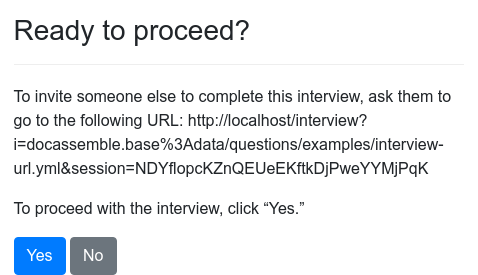
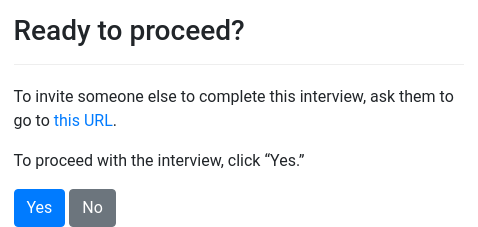
temporary and once_temporary options for interview_url; SQL error in websockets; actions on code not setting current question

diff --git a/docassemble/webapp/templates/pages/501.html b/docassemble/webapp/templates/pages/501.html
@@ -11,7 +11,7 @@
 {%- if verbose %}
 {{ error|safe }}
 
-{%- if historytext != 'None' %}
+{%- if show_debug and historytext != 'None' %}
 
 <h3>{{ word('History') }}</h3>
 
@@ -20,7 +20,7 @@
 <p><a target="_blank" href="{{ url_for('get_variables') }}">{{ word('Show variables and values') }}</a></p>
 {%- endif %}
 
-{%- if logtext != 'None' %}
+{%- if show_debug and logtext != 'None' %}
 
 <h3>{{ word('Log') }}</h3>
 

diff --git a/docassemble/webapp/socketserver.py b/docassemble/webapp/socketserver.py
@@ -67,10 +67,17 @@ def obtain_lock(user_code, filename):
     pipe.set(key, 1)
     pipe.expire(key, 4)
     pipe.execute()
-    
+
 def release_lock(user_code, filename):
     key = 'da:lock:' + user_code + ':' + filename
     rr.delete(key)
+
+@app.teardown_appcontext
+def close_db(error):
+    sys.stderr.write("Teardown of app context\n")
+    if hasattr(db, 'engine'):
+        sys.stderr.write("Tearing down\n")
+        db.engine.dispose()
 
 def background_thread(sid=None, user_id=None, temp_user_id=None):
     if user_id is not None:
@@ -89,12 +96,13 @@ def background_thread(sid=None, user_id=None, temp_user_id=None):
             the_timezone = pytz.timezone(person.timezone)
         else:
             the_timezone = pytz.timezone(get_default_timezone())
-        r = redis.StrictRedis(host=redis_host, port=redis_port, db=redis_offset)
+    r = redis.StrictRedis(host=redis_host, port=redis_port, db=redis_offset)
 
-        partners = set()
-        pubsub = r.pubsub()
-        pubsub.subscribe([sid])
-        for item in pubsub.listen():
+    partners = set()
+    pubsub = r.pubsub()
+    pubsub.subscribe([sid])
+    for item in pubsub.listen():
+        with app.app_context():
             sys.stderr.write("0\n" + repr(item) + "\n")
             if item['type'] != 'message':
                 continue
@@ -163,7 +171,7 @@ def interview_start_being_controlled(message):
 def handle_message(message):
     socketio.emit('mymessage', {'data': "Hello"}, namespace='/wsinterview', room=request.sid)
     #sys.stderr.write('received message from ' + str(session.get('uid', 'NO UID')) + ': ' + message['data'] + "\n")
-    
+
 @socketio.on('chat_log', namespace='/wsinterview')
 def chat_log(message):
     user_dict = get_dict()
@@ -183,7 +191,7 @@ def chat_log(message):
         temp_user_id = int(temp_user_id)
     secret = request.cookies.get('secret', None)
     if secret is not None:
-        secret = str(secret)    
+        secret = str(secret)
     #sys.stderr.write("chat_log: " + str(repr(user_id)) + " " + str(repr(temp_user_id)) + "\n")
     messages = get_chat_log(chat_mode, yaml_filename, session_id, user_id, temp_user_id, secret, user_id, temp_user_id)
     socketio.emit('chat_log', {'data': messages}, namespace='/wsinterview', room=request.sid)
@@ -270,7 +278,7 @@ def on_interview_reconnect(data):
     interview_connect()
     rr.publish('da:monitor', json.dumps(dict(messagetype='refreshsessions')))
     socketio.emit('reconnected', {}, namespace='/wsinterview', room=request.sid)
-    
+
 def interview_connect():
     session_id = session.get('uid', None)
     if session_id is not None:
@@ -285,7 +293,7 @@ def interview_connect():
             sys.stderr.write("user_dict did not exist.\n")
             socketio.emit('terminate', {}, namespace='/wsinterview', room=request.sid)
             return
-        
+
         chat_info = user_dict['_internal']['livehelp']
         if chat_info['availability'] == 'unavailable':
             sys.stderr.write("Socket started but chat is unavailable.\n")
@@ -299,7 +307,7 @@ def interview_connect():
 
         yaml_filename = session.get('i', None)
         the_user_id = session.get('user_id', 't' + str(session.get('tempuser', None)))
-        
+
         if request.sid not in threads:
             #sys.stderr.write('Starting thread for sid ' + str(request.sid) + "\n")
             threads[request.sid] = socketio.start_background_task(target=background_thread, sid=request.sid, user_id=session.get('user_id', None), temp_user_id=session.get('tempuser', None))
@@ -423,11 +431,12 @@ def monitor_thread(sid=None, user_id=None):
             the_timezone = pytz.timezone(person.timezone)
         else:
             the_timezone = pytz.timezone(get_default_timezone())
-        r = redis.StrictRedis(host=redis_host, port=redis_port, db=redis_offset)
-        listening_sids = set()
-        pubsub = r.pubsub()
-        pubsub.subscribe(['da:monitor', sid])
-        for item in pubsub.listen():
+    r = redis.StrictRedis(host=redis_host, port=redis_port, db=redis_offset)
+    listening_sids = set()
+    pubsub = r.pubsub()
+    pubsub.subscribe(['da:monitor', sid])
+    for item in pubsub.listen():
+        with app.app_context():
             sys.stderr.write("1\n" + repr(item) + "\n")
             if item['type'] != 'message':
                 continue
@@ -561,7 +570,7 @@ def monitor_block(data):
     else:
         sys.stderr.write("Could not block because could not get sid\n")
     socketio.emit('block', {'key': key}, namespace='/monitor', room=request.sid)
-    
+
 @socketio.on('unblock', namespace='/monitor')
 def monitor_unblock(data):
     if 'monitor' not in session:
@@ -806,7 +815,7 @@ def monitor_chat_message(data):
     modtime = nice_utc_date(nowtime)
     rr.publish(sid, json.dumps(dict(origin='client', messagetype='chat', sid=request.sid, yaml_filename=yaml_filename, uid=session_id, user_id=chat_user_id, message=dict(id=record.id, user_id=record.user_id, first_name=person.first_name, last_name=person.last_name, email=person.email, modtime=modtime, message=data['data'], roles=[role.name for role in person.roles], mode=chat_mode))))
     #sys.stderr.write('received chat message on monitor from sid ' + str(request.sid) + ': ' + data['data'] + "\n")
-    
+
 @socketio.on('chat_log', namespace='/monitor')
 def monitor_chat_log(data):
     if 'monitor' not in session:
@@ -865,12 +874,12 @@ def monitor_chat_log(data):
 #observer
 
 def observer_thread(sid=None, key=None):
-    with app.app_context():
-        sys.stderr.write("Started observer thread for " + str(sid) + "\n")
-        r = redis.StrictRedis(host=redis_host, port=redis_port, db=redis_offset)
-        pubsub = r.pubsub()
-        pubsub.subscribe([key, sid])
-        for item in pubsub.listen():
+    sys.stderr.write("Started observer thread for " + str(sid) + "\n")
+    r = redis.StrictRedis(host=redis_host, port=redis_port, db=redis_offset)
+    pubsub = r.pubsub()
+    pubsub.subscribe([key, sid])
+    for item in pubsub.listen():
+        with app.app_context():
             sys.stderr.write("2\n" + repr(item) + "\n")
             if item['type'] != 'message':
                 continue
@@ -1015,7 +1024,7 @@ def on_observer_disconnect():
         sys.stderr.write("Calling controllerexit 2");
         rr.publish(other_sid, json.dumps(dict(messagetype='controllerexit', sid=request.sid)))
     rr.publish(request.sid, json.dumps(dict(message='KILL', sid=request.sid)))
-    
+
 @socketio.on('terminate', namespace='/observer')
 def terminate_observer_connection():
     sys.stderr.write("terminate_observer_connection\n")

diff --git a/docassemble/webapp/server.py b/docassemble/webapp/server.py
@@ -3421,8 +3421,8 @@ def current_info(yaml=None, req=None, action=None, location=None, interface='web
             headers[key] = value
         clientip = req.remote_addr
         method = req.method
-        if 'session' in request.cookies:
-            unique_id = str(request.cookies.get('session'))[5:15]
+        if 'session' in req.cookies:
+            unique_id = str(req.cookies.get('session'))[5:15]
         else:
             unique_id = ''
         if unique_id == '':
@@ -3777,6 +3777,29 @@ def load_user(id):
 #     # else:
 #     #     logmessage("post_login: no newsecret")
 #     return response
+
+@app.route('/run', methods=['GET'])
+def run_temp():
+    code = request.args.get('c', None)
+    if code is None:
+        abort(403)
+    the_key = 'da:temporary_url:' + str(code)
+    url = r.get(the_key)
+    if url is None:
+        raise DAError(word("The link has expired."), code=403)
+    return redirect(url)
+
+@app.route('/goto', methods=['GET'])
+def run_temp_once():
+    code = request.args.get('c', None)
+    if code is None:
+        abort(403)
+    the_key = 'da:temporary_url_once:' + str(code)
+    url = r.get(the_key)
+    if url is None:
+        raise DAError(word("The link has expired."), code=403)
+    r.delete(the_key)
+    return redirect(url)
 
 @app.route('/user/autologin', methods=['GET'])
 def auto_login():
@@ -8265,10 +8288,10 @@ def index(action_argument=None):
           if (daChatMode == 'peer' || daChatMode == 'peerhelp'){
             daChatPartnersAvailable += data.num_peers;
             if (data.num_peers == 1){
-              $("#dapeerMessage").html('<span class="btn btn-info">' + data.num_peers + ' ' + """ + json.dumps(word("other user")) + """ + '<\/span>');
+              $("#dapeerMessage").html('<span class="badge badge-info">' + data.num_peers + ' ' + """ + json.dumps(word("other user")) + """ + '<\/span>');
             }
             else{
-              $("#dapeerMessage").html('<span class="btn btn-info">' + data.num_peers + ' ' + """ + json.dumps(word("other users")) + """ + '<\/span>');
+              $("#dapeerMessage").html('<span class="badge badge-info">' + data.num_peers + ' ' + """ + json.dumps(word("other users")) + """ + '<\/span>');
             }
             $("#dapeerMessage").removeClass("dainvisible");
           }
@@ -16574,7 +16597,11 @@ def server_error(the_error):
         session['in error'] = True
         #session['action'] = docassemble.base.functions.myb64quote(json.dumps({'action': docassemble.base.functions.this_thread.interview.consolidated_metadata['error action'], 'arguments': dict(error_message=orig_errmess)}))
         return index(action_argument={'action': docassemble.base.functions.this_thread.interview.consolidated_metadata['error action'], 'arguments': dict(error_message=orig_errmess)})
-    return render_template('pages/501.html', verbose=daconfig.get('verbose error messages', True), version_warning=None, tab_title=word("Error"), page_title=word("Error"), error=errmess, historytext=text_type(the_history), logtext=text_type(the_trace), extra_js=Markup(script), special_error=special_error_html), error_code
+    if (not DEBUG) and isinstance(the_error, DAError):
+        show_debug = False
+    else:
+        show_debug = True
+    return render_template('pages/501.html', verbose=daconfig.get('verbose error messages', True), version_warning=None, tab_title=word("Error"), page_title=word("Error"), error=errmess, historytext=text_type(the_history), logtext=text_type(the_trace), extra_js=Markup(script), special_error=special_error_html, show_debug=show_debug), error_code
 
 @app.route('/bundle.css', methods=['GET'])
 def css_bundle():
@@ -20424,10 +20451,13 @@ def api_login_url():
             info[key] = post_data[key]
     if len(url_args):
         info['url_args'] = url_args
-    code = random_string(24)
     encryption_key = random_string(16)
     encrypted_text = encrypt_dictionary(info, encryption_key)
-    the_key = 'da:auto_login:' + code
+    while True:
+        code = random_string(24)
+        the_key = 'da:auto_login:' + code
+        if r.get(the_key) is None:
+            break
     pipe = r.pipeline()
     pipe.set(the_key, encrypted_text)
     pipe.expire(the_key, 15)
